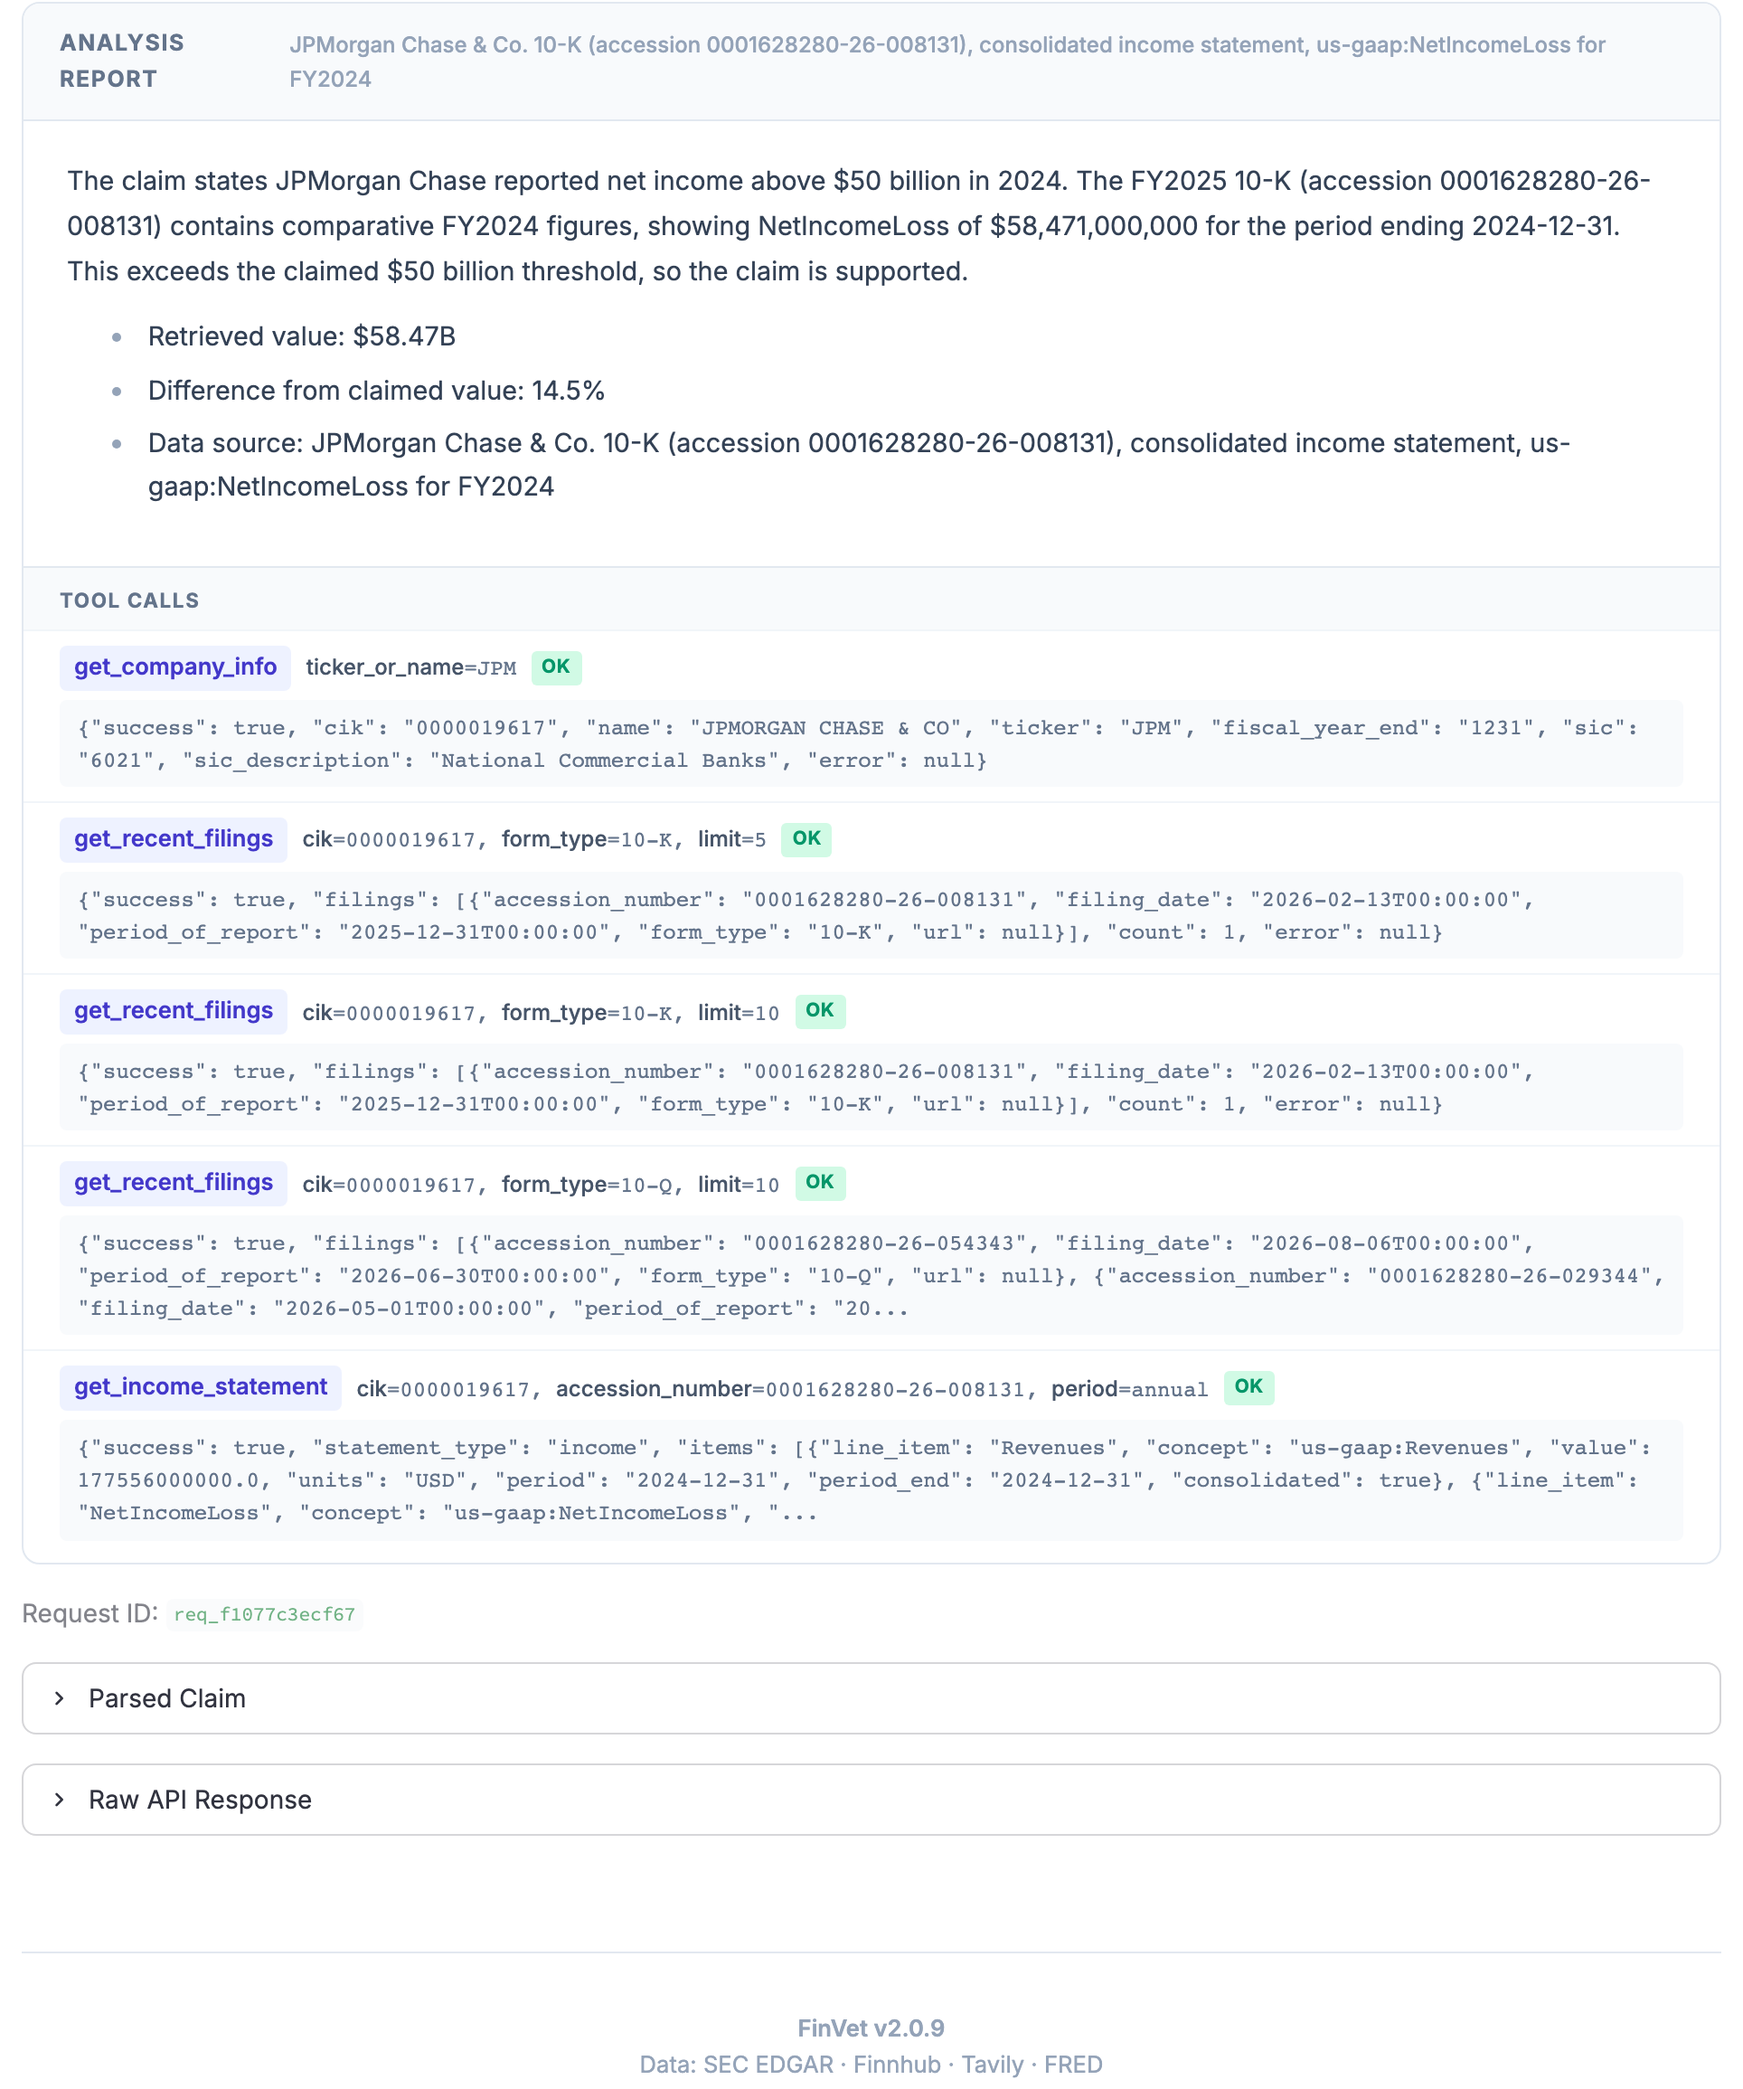
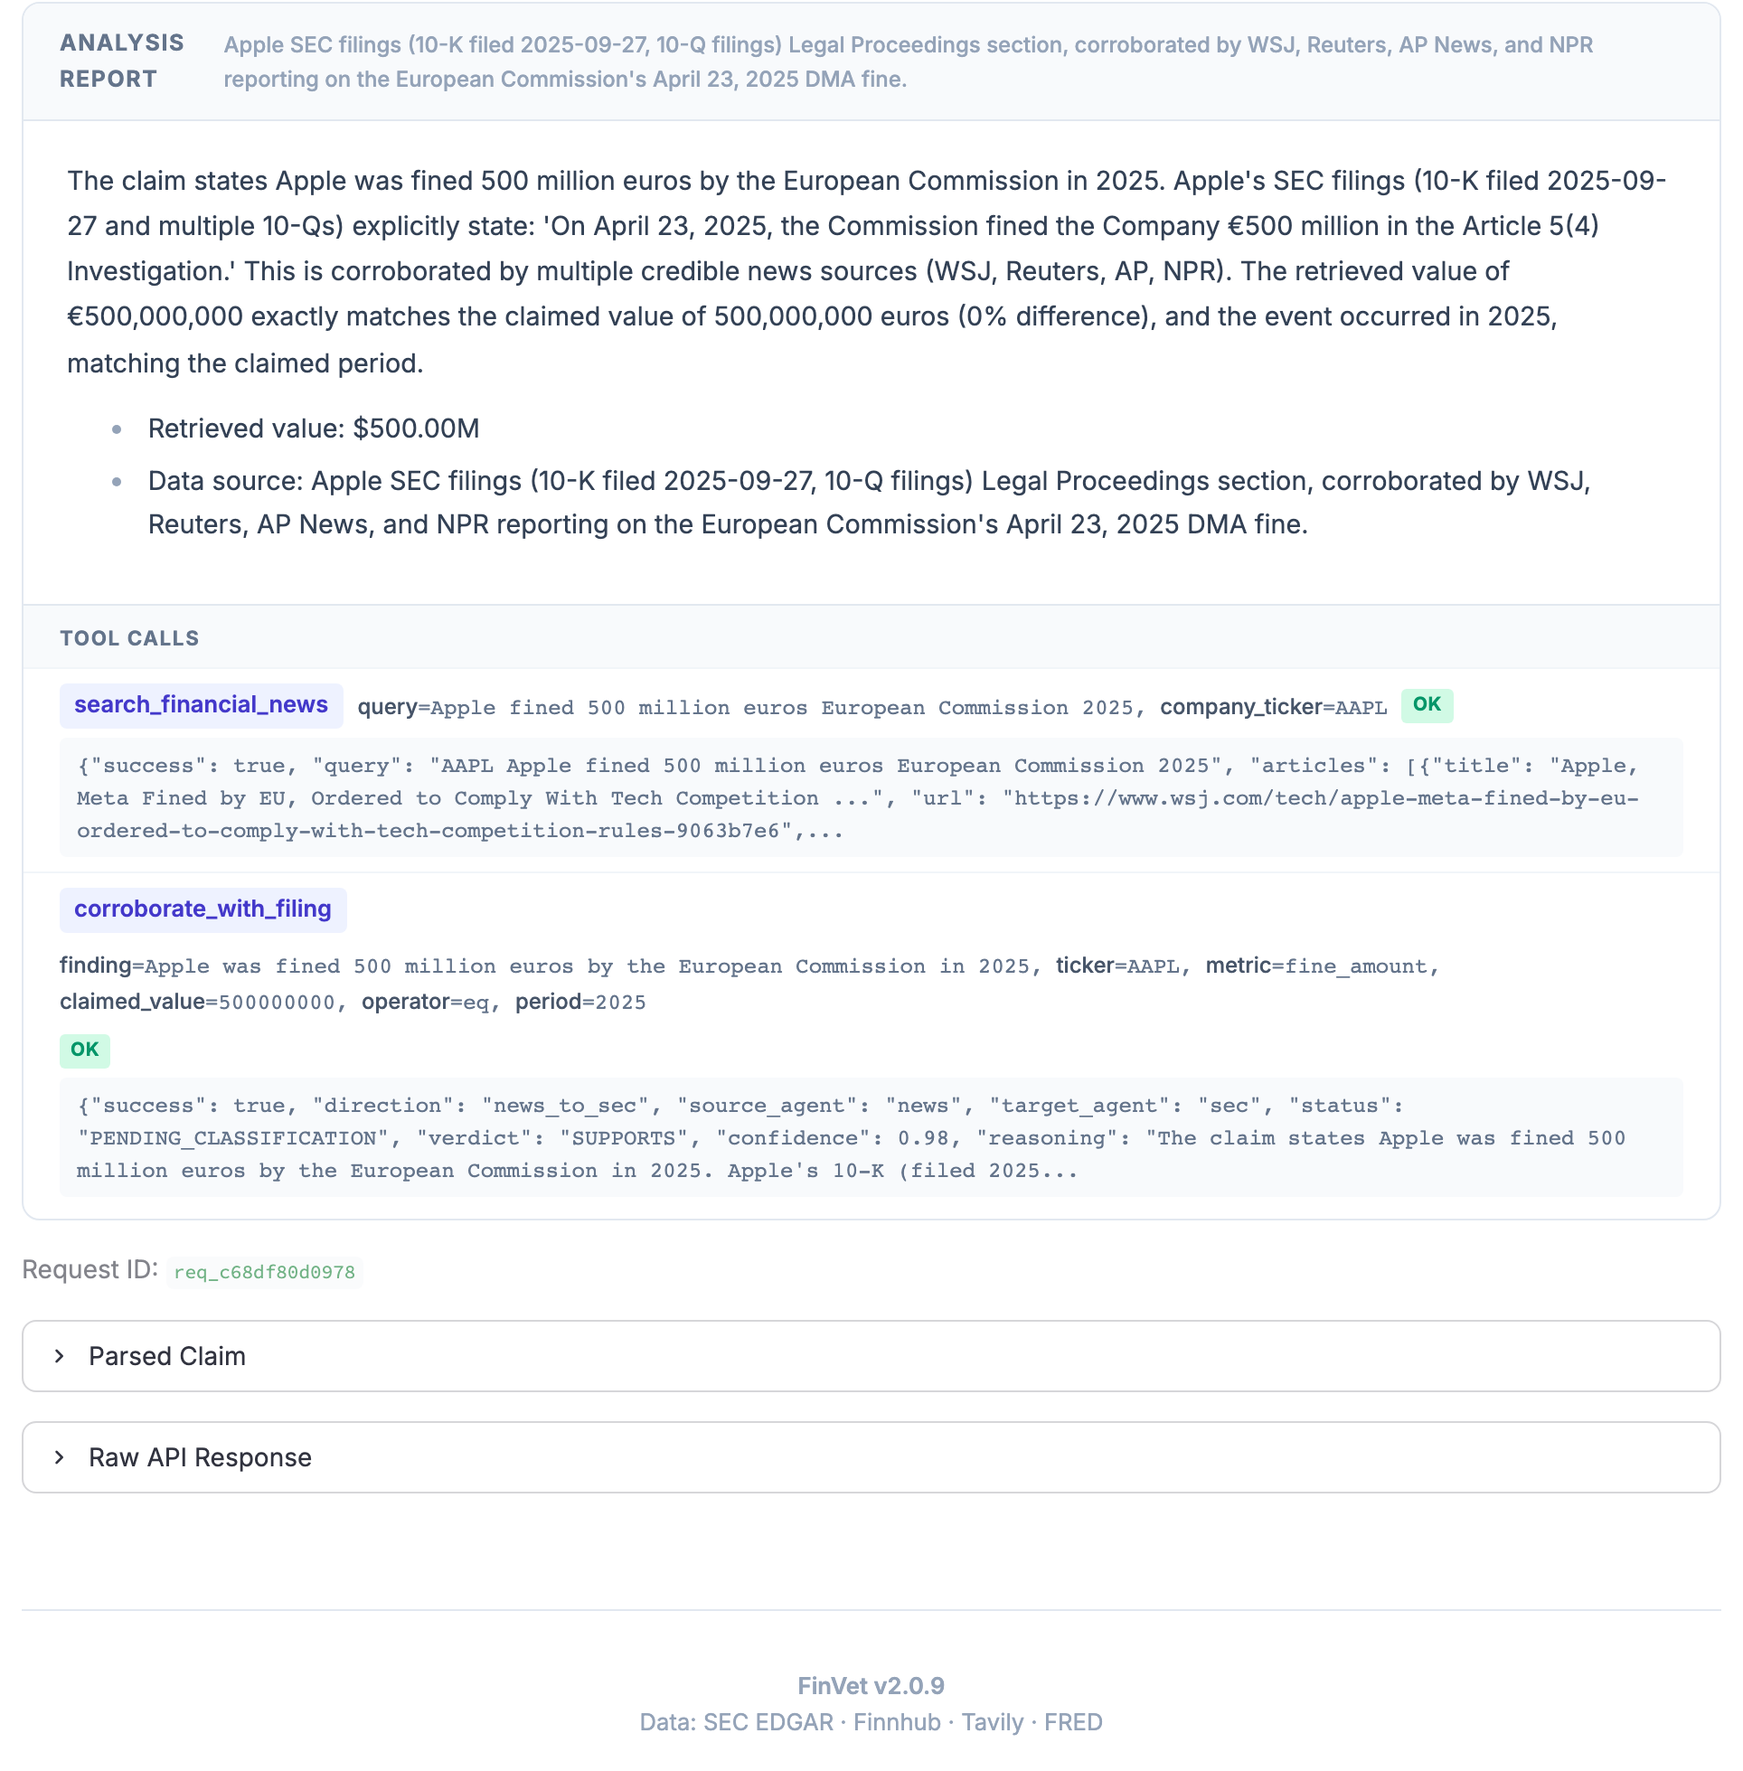
docs(readme): the screenshots now show the delegation path
The old pair showed a single SEC lookup, which demonstrates the comparator but
not the part of the system that is harder to build: one agent deciding it cannot
settle a claim and handing it to another.

The new run is a news claim about the European Commission's fine on Apple. The
news agent searches, calls `corroborate_with_filing`, and the SEC agent finds the
same figure in the Legal Proceedings section of the 10-K. Both the delegation and
the reply are visible in the tool-call list, which is the point of showing it.

diff --git a/README.md b/README.md
@@ -13,15 +13,16 @@ agent that answered, lists every tool call it made in order, and keeps an audit 
 run.
 
 <p align="center">
-  <a href="docs/diagrams/finvet-screenshot.png"><img src="docs/diagrams/finvet-screenshot.png" alt="FinVet verifying a claim: the pipeline steps, the claimed and filed figures, and the verdict"></a>
-  <br><sub>Claimed above $50B, filed $58.47B. The 14.5% gap supports an "above" claim rather than
-  refuting it, because the comparator reads the operator and not just the distance.
-  Click any image for full resolution.</sub>
+  <a href="docs/diagrams/finvet-screenshot.png"><img src="docs/diagrams/finvet-screenshot.png" alt="FinVet verifying a news claim: the pipeline steps, the delegation to the SEC agent, and the verdict"></a>
+  <br><sub>A news claim the news agent cannot settle alone. It searched, then handed the finding to
+  the SEC agent, which found the same &euro;500 million in Apple's filing. Click any image for full
+  resolution.</sub>
 </p>
 
 <p align="center">
-  <a href="docs/diagrams/finvet-evidence.png"><img src="docs/diagrams/finvet-evidence.png" alt="Every tool call with its arguments and raw response, and the filing the number came from"></a>
-  <br><sub>The same run's evidence: every tool call with its arguments and raw response, and the accession number the figure came from.</sub>
+  <a href="docs/diagrams/finvet-evidence.png"><img src="docs/diagrams/finvet-evidence.png" alt="Every tool call with its arguments and raw response, including the delegation to the SEC agent"></a>
+  <br><sub>The same run's evidence: every tool call with its arguments and raw response, including the
+  delegation itself and what the SEC agent sent back.</sub>
 </p>
 
 > **Not financial advice.** A research and demonstration system; outputs may be wrong and must
